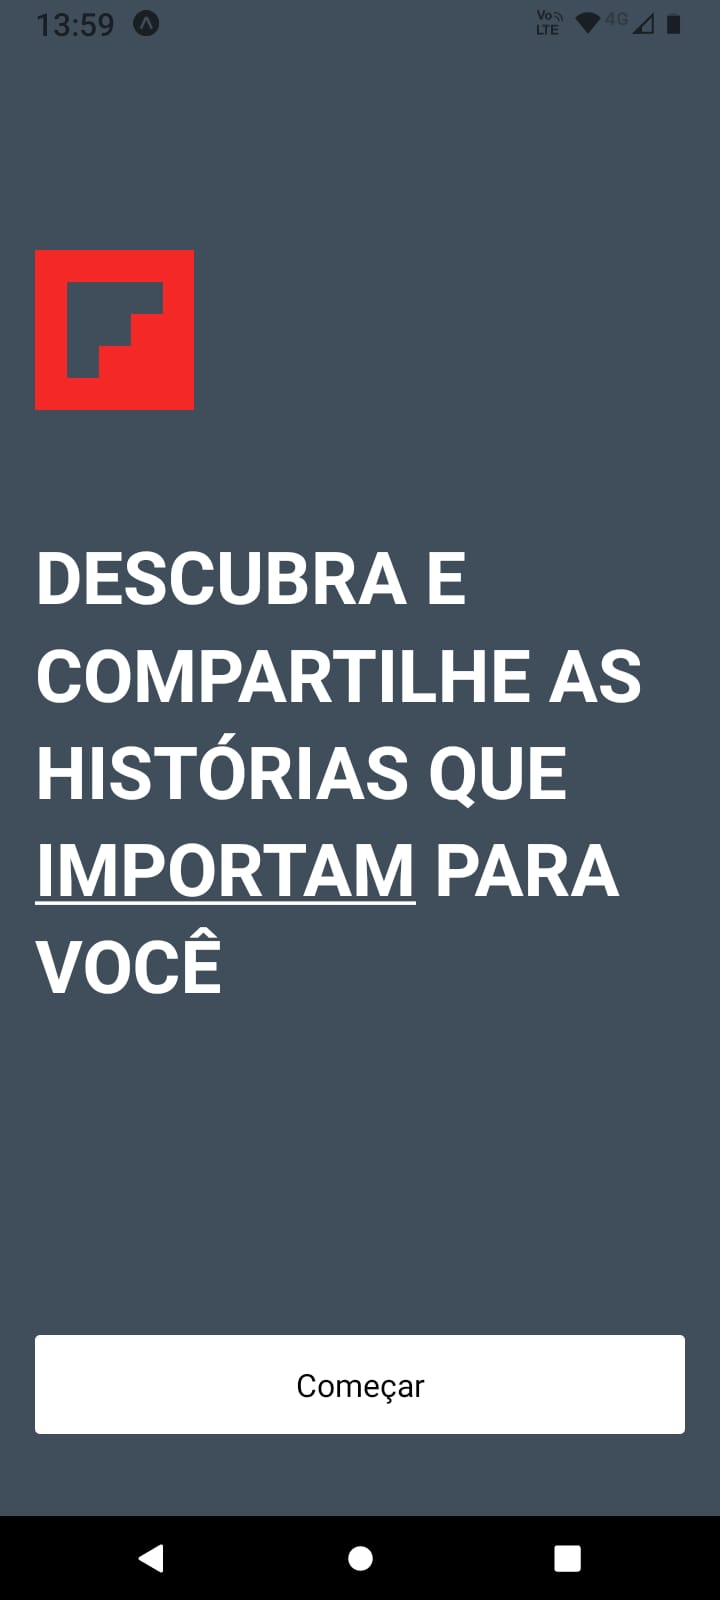
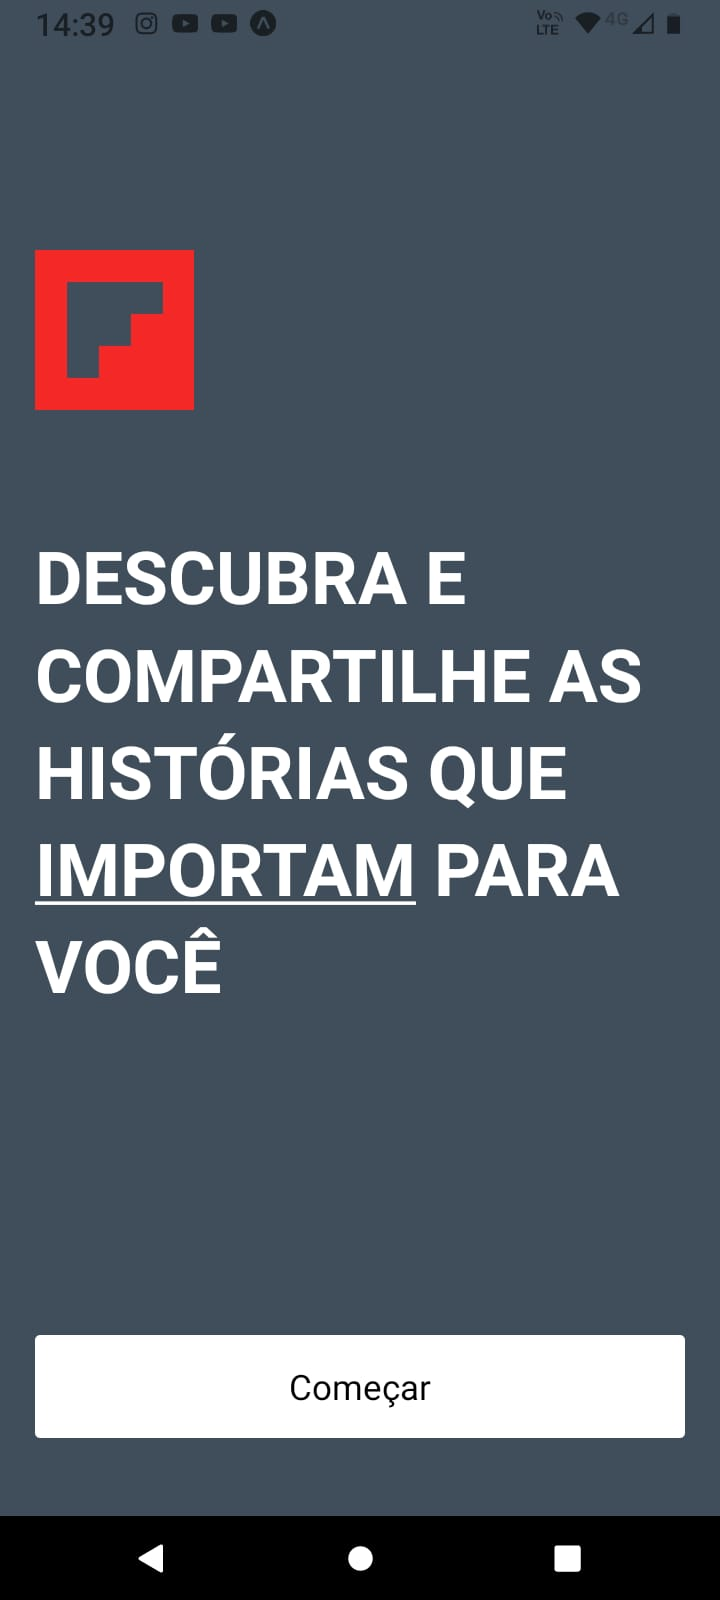
clone da Tela

diff --git a/src/screens/Pagina/index.jsx b/src/screens/Pagina/index.jsx
@@ -68,6 +68,10 @@ const styles = StyleSheet.create({
   },
   comecar: {
     textAlign: "center",
+    fontSize: 15,
+    
+    
+
 
     importamUnderline: {
       textDecorationColor: "white", 
